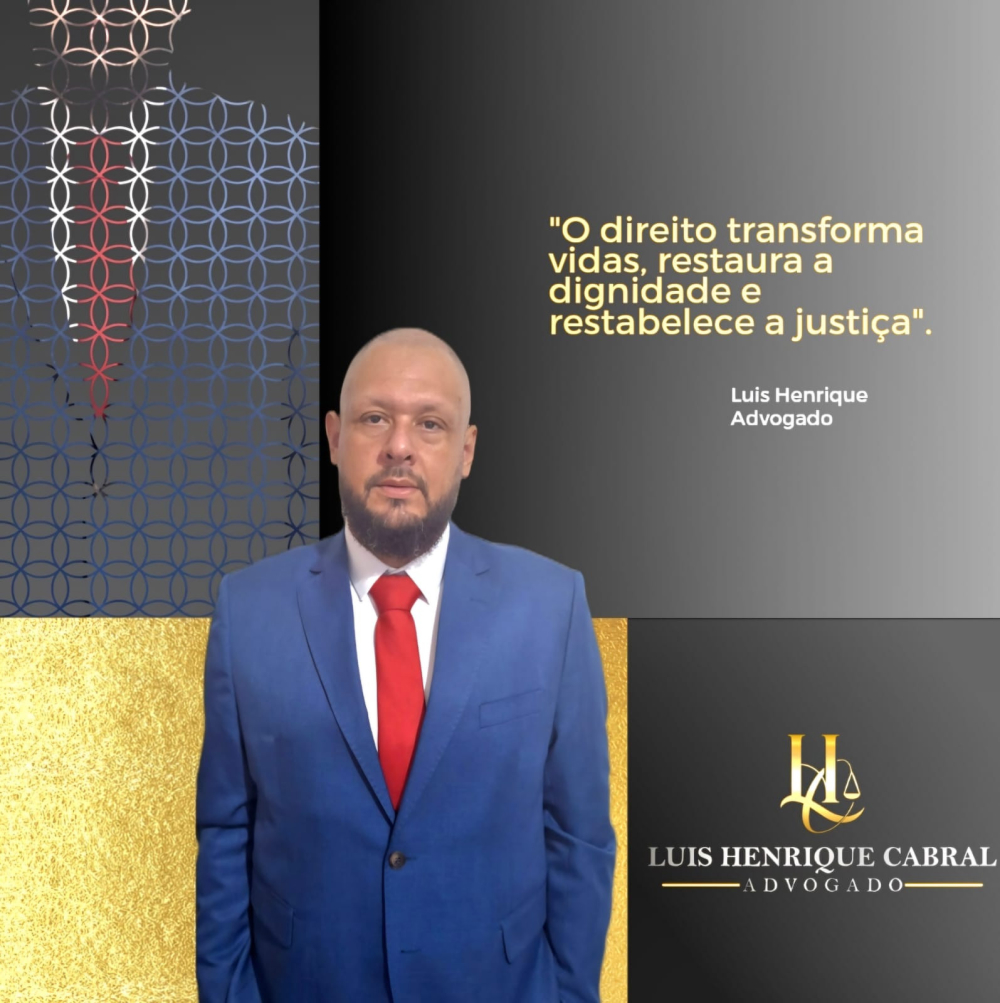
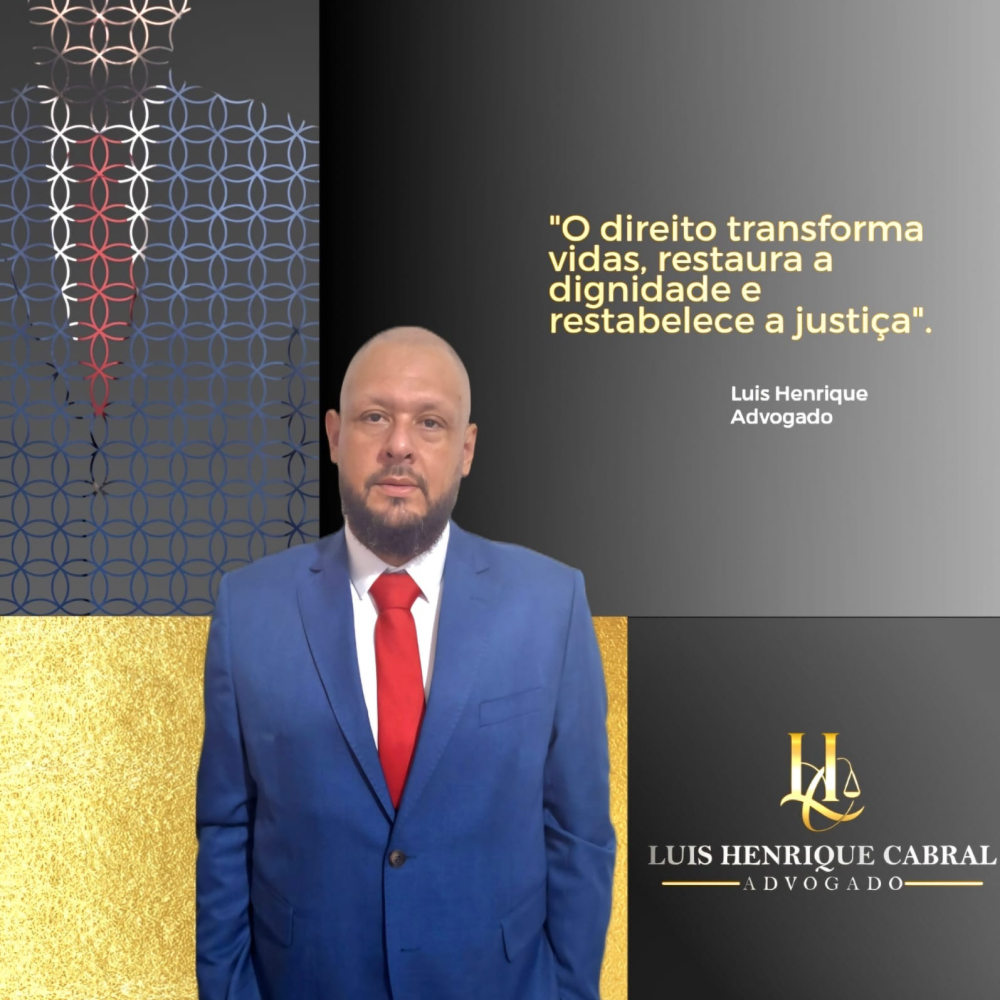
feat: Corrige foto de about tirando de background

diff --git a/src/components/sections/About.jsx b/src/components/sections/About.jsx
@@ -51,18 +51,16 @@ export default function About({ modal }) {
       <SectionShapeDiv shapeDivArrow={false} shapeColor="text-white" />
       <SectionWrapper className="flex flex-col desktop1:flex-row-reverse gap-[40px] desktop1:gap-x-[40px] desktop2:gap-0 desktop1:justify-between">
         <MotionDivDownToUp className=" w-[100%] desktop1:w-[415px] desktop2:w-[485px] flex justify-center">
-          <div
+          {/* <div
             style={{
               backgroundImage: `url(${content.texts.about.imagem.img})`,
             }}
             className="shadow-custom-opacity shadow-secondary/25 relative bg-center bg-no-repeat bg-cover h-[350px] w-[90%] tablet1:w-full tablet1:h-[800px] desktop1:h-[467px] rounded-xl"
-          >
-            {/* <img
-              alt="Imagem de efeito pontilhado"
-              src={imgPoints}
-              className="absolute opacity-30 right-[-10px] top-[20px] desktop1:right-[-40px] desktop1:top-[40px]"
-            ></img> */}
-          </div>
+          ></div> */}
+          <img
+            src={content.texts.about.imagem.img}
+            className="shadow-custom-opacity shadow-secondary/25 relative bg-center bg-no-repeat bg-cover w-[90%] tablet1:w-full rounded-xl"
+          />
           {/* <img
             src={content.texts.about.imagem.img}
             alt="Imagem de uma praia de Arraial"
